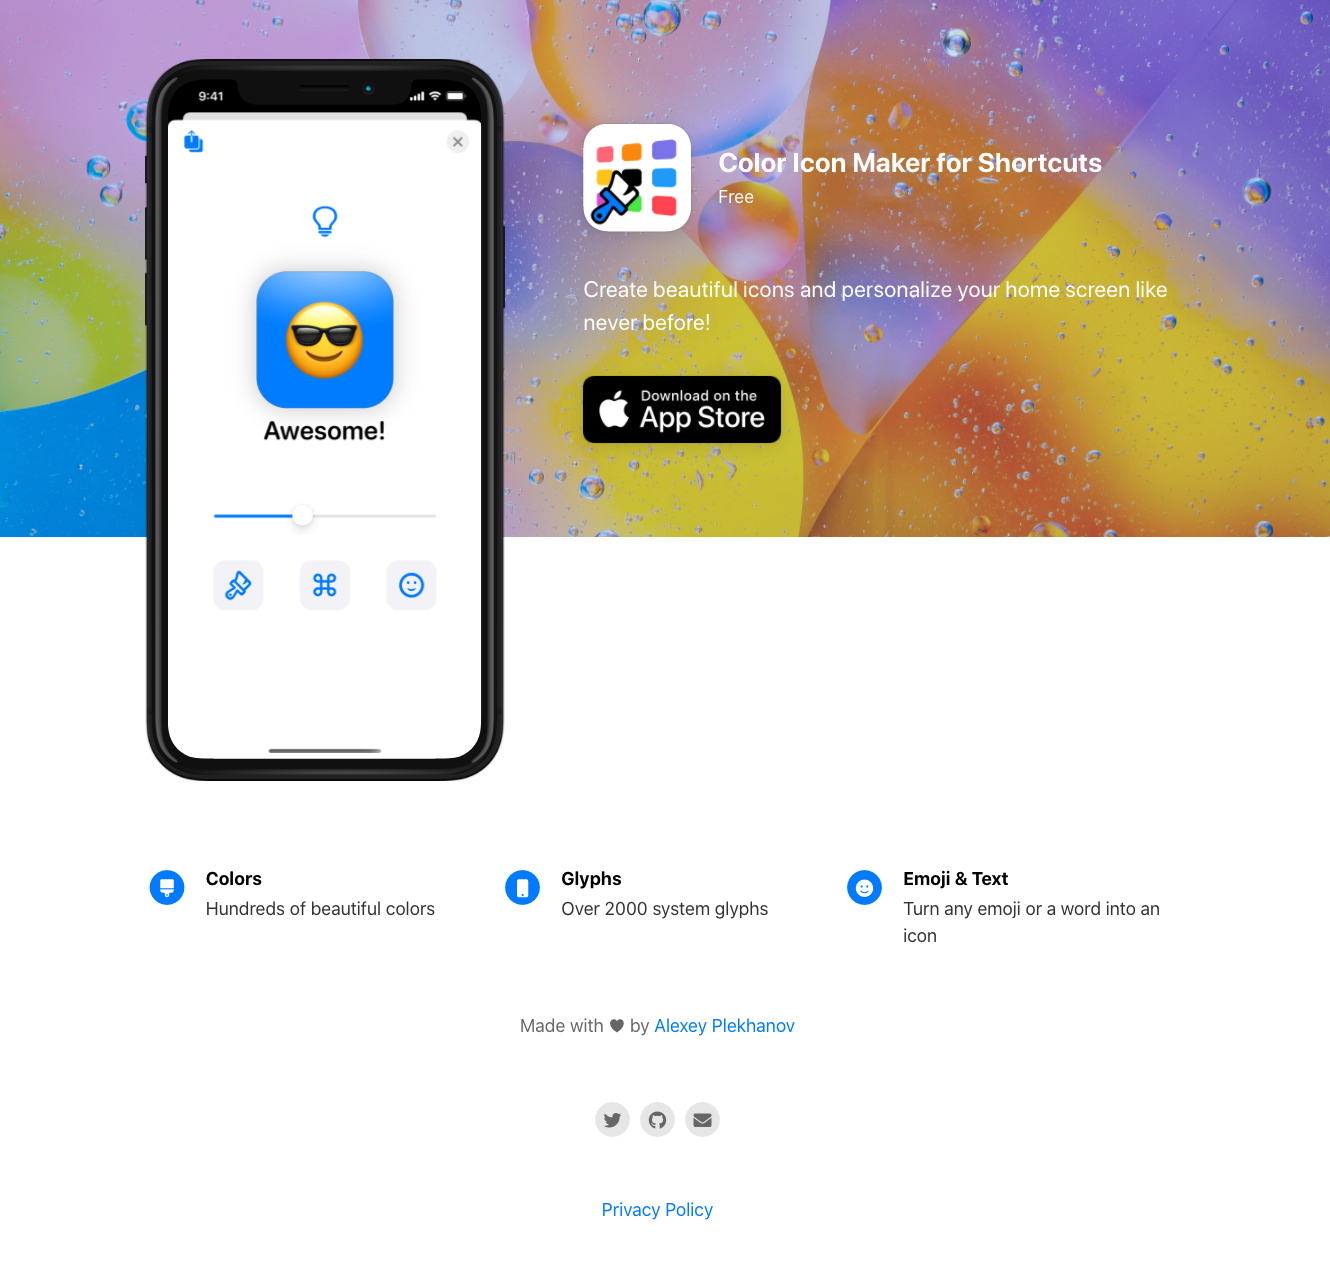
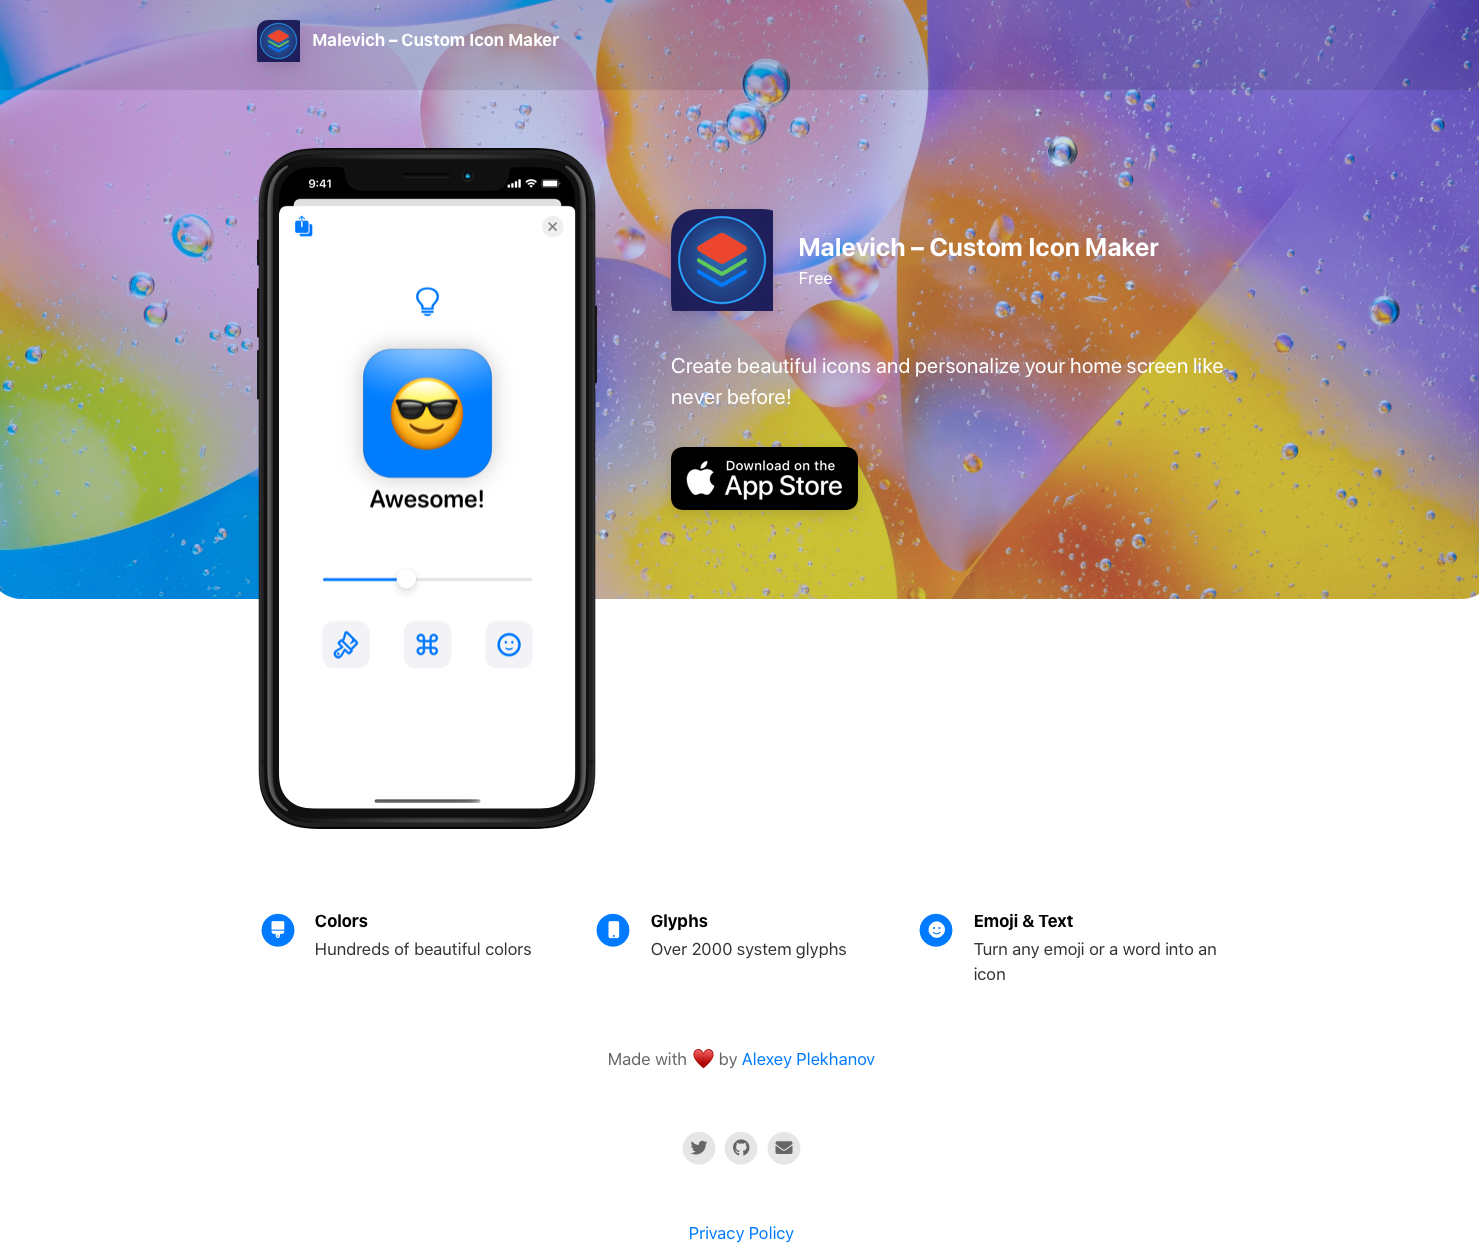
Update readme.

diff --git a/README.md b/README.md
@@ -1,4 +1,4 @@
-# Color Icon Maker
+# Malevich – Custom Icon Maker
 **Look different home screen.**
 
 The app lets you create beautiful icons in a relaxed and fun way!
@@ -8,6 +8,6 @@ Generated icons are pixel perfect and can be used in the "Open App" action of sh
 - Over 2000 system glyphs. 
 - Hundreds of beautiful colors.
 
-Color Icon Maker is the best companion for your favorite widget app. It lets you create beautiful icons in a fun and easy way! 
+Malevich is the best companion for your favorite widget app. It lets you create beautiful icons in a fun and easy way! 
 
 ![Color Icon Maker](/landing.png)
